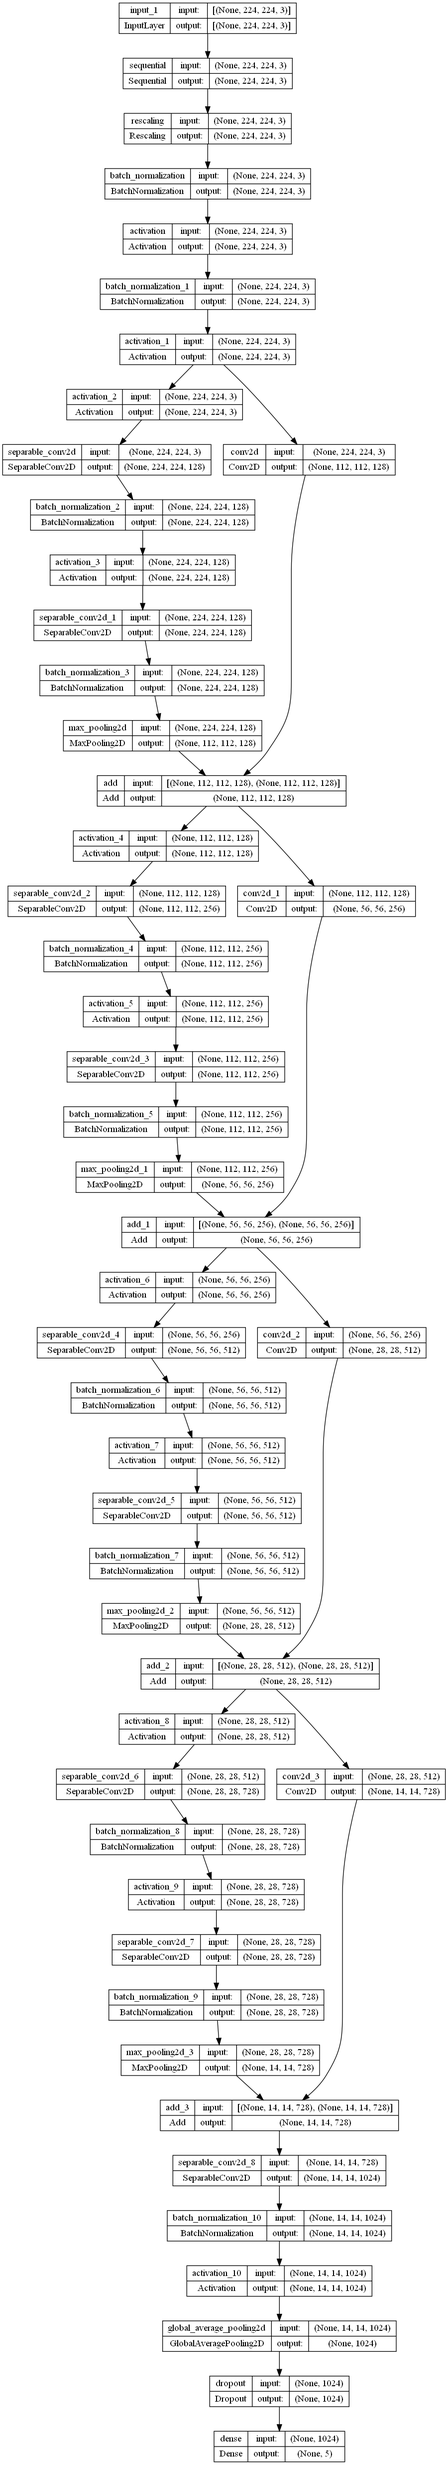
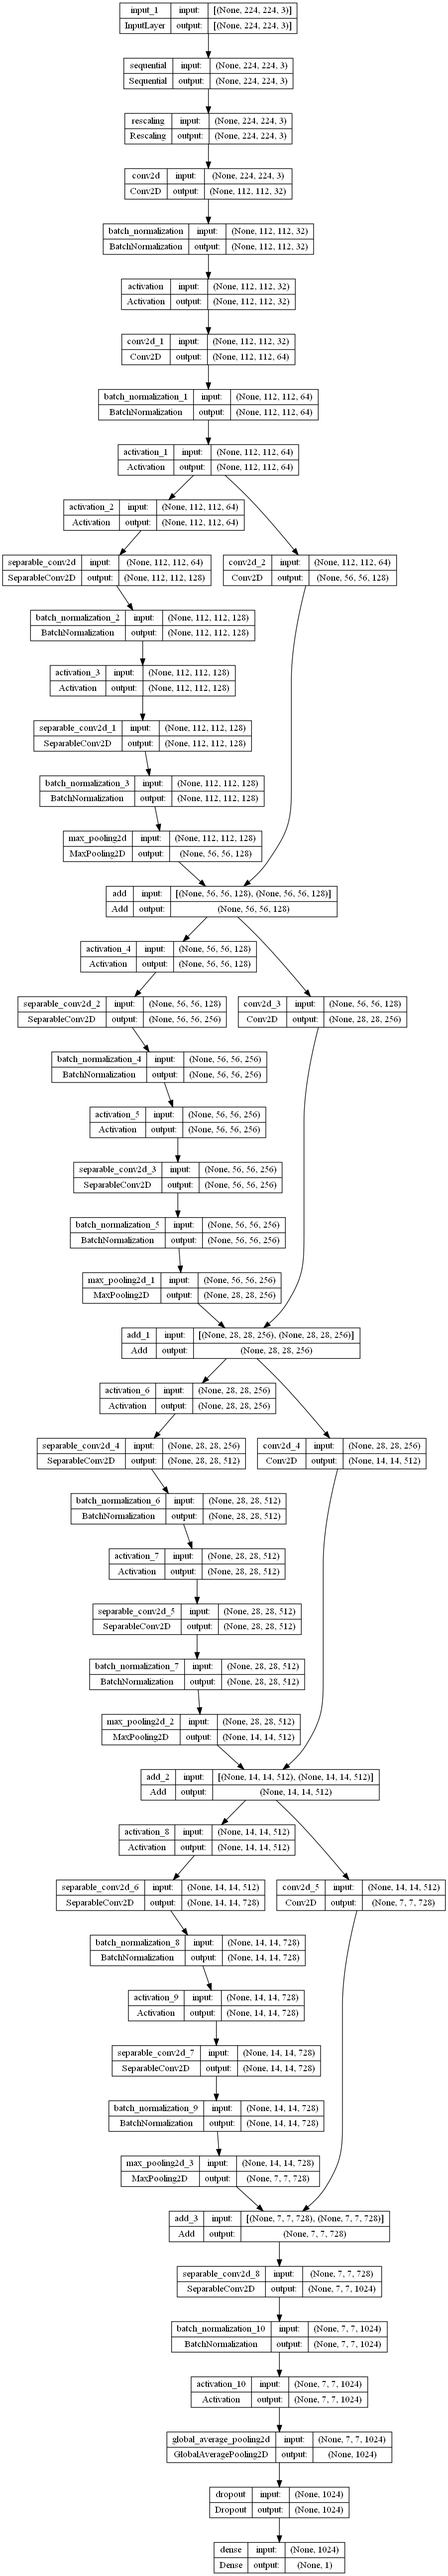
Intento de mas cocsas sobre rna, migramos a google collab

Changed region(s): [[0.0311, 0.0, 0.9956, 1.0], [0.8711, 0.3739, 0.9022, 0.405]]

diff --git a/main.py b/main.py
@@ -1,7 +1,9 @@
-import tensorflow as tf
-from tensorflow import keras
-from keras import layers
+from time import process_time
+
 import matplotlib.pyplot as plt
+import tensorflow as tf
+from keras import layers
+from tensorflow import keras
 
 image_size = (224, 224)
 batch_size = 32
@@ -11,9 +13,9 @@ def main():
     train_ds, val_ds = preprocess_data()
     # input_sape es el formato de la imagen de entrada
     # num_classes es la cantidad de pajaros que vamos a analizar,
-    model = make_model(input_shape=image_size + (3,), num_classes=5)
-    keras.utils.plot_model(model, show_shapes=True)
-    train_model(model, train_ds, val_ds)
+    # model = make_model(input_shape=image_size + (3,), num_classes=5)
+    # keras.utils.plot_model(model, show_shapes=True)
+    # train_model(model, train_ds, val_ds)
 
 
 def preprocess_data():
@@ -33,15 +35,17 @@ def preprocess_data():
         image_size=image_size,
         batch_size=batch_size,
     )
+    train_ds = train_ds.prefetch(buffer_size=32)
+    val_ds = val_ds.prefetch(buffer_size=32)
 
-    plt.figure(figsize=(10, 10))
-    for images, labels in train_ds.take(1):
-        for i in range(9):
-            ax = plt.subplot(3, 3, i + 1)
-            plt.imshow(images[i].numpy().astype("uint8"))
-            plt.show()
-            plt.title(int(labels[i]))
-            plt.axis("off")
+    # plt.figure(figsize=(10, 10))
+    # for images, labels in train_ds.take(1):
+    #     for i in range(9):
+    #         ax = plt.subplot(3, 3, i + 1)
+    #         plt.imshow(images[i].numpy().astype("uint8"))
+    #         plt.show()
+    #         plt.title(int(labels[i]))
+    #         plt.axis("off")
 
     return train_ds, val_ds
 
@@ -57,10 +61,12 @@ def make_model(input_shape, num_classes):
     x = data_augmentation(inputs)
 
     # Entry block
-    x = layers.Rescaling(1.0 / 255)(x) # Pasa de un rango de [0,255] a [0,1]
+    x = layers.Rescaling(1.0 / 255)(x)  # Pasa de un rango de [0,255] a [0,1]
+    x = layers.Conv2D(32, 3, strides=2, padding="same")(x)
     x = layers.BatchNormalization()(x)
-    x = layers.Activation("sigmoid")(x)
+    x = layers.Activation("relu")(x)
 
+    x = layers.Conv2D(64, 3, padding="same")(x)
     x = layers.BatchNormalization()(x)
     x = layers.Activation("relu")(x)
 
@@ -89,7 +95,7 @@ def make_model(input_shape, num_classes):
     x = layers.Activation("relu")(x)
 
     x = layers.GlobalAveragePooling2D()(x)
-    if num_classes == 2:
+    if num_classes == 5:
         activation = "sigmoid"
         units = 1
     else:
@@ -102,7 +108,7 @@ def make_model(input_shape, num_classes):
 
 
 def train_model(model, train_ds, val_ds):
-    epochs = 50
+    epochs = 2
 
     callbacks = [
         keras.callbacks.ModelCheckpoint("save_at_{epoch}.h5"),
@@ -118,5 +124,8 @@ def train_model(model, train_ds, val_ds):
 
 
 if __name__ == '__main__':
+    t1_start = process_time()
     main()
-    print("FIN")
+    t1_stop = process_time()
+    print("------------FIN------------\n", "Elapsed time during the whole program in seconds:",
+          t1_stop - t1_start)

diff --git a/2main.py b/2main.py
@@ -1,0 +1,17 @@
+import matplotlib.pyplot as plt
+import pandas as pd
+import tensorflow as tf
+from keras import layers
+from tensorflow import keras
+
+fashion_mnist = keras.datasets.fashion_mnist
+(X_train_full, y_train_full), (X_test, y_test) = fashion_mnist.load_data()
+
+X_valid, X_train = X_train_full[:5000], X_train_full[5000:]
+y_valid, y_train = y_train_full[:5000], y_train_full[5000:]
+
+class_names = ["T-shirt/top", "Trouser", "Pullover", "Dress",
+               "Coat", "Sandal", "Shirt", "Sneaker", "Bag", "Ankle boot"]
+
+X_valid, X_train = X_valid / 255., X_train / 255.
+X_test = X_test / 255.
